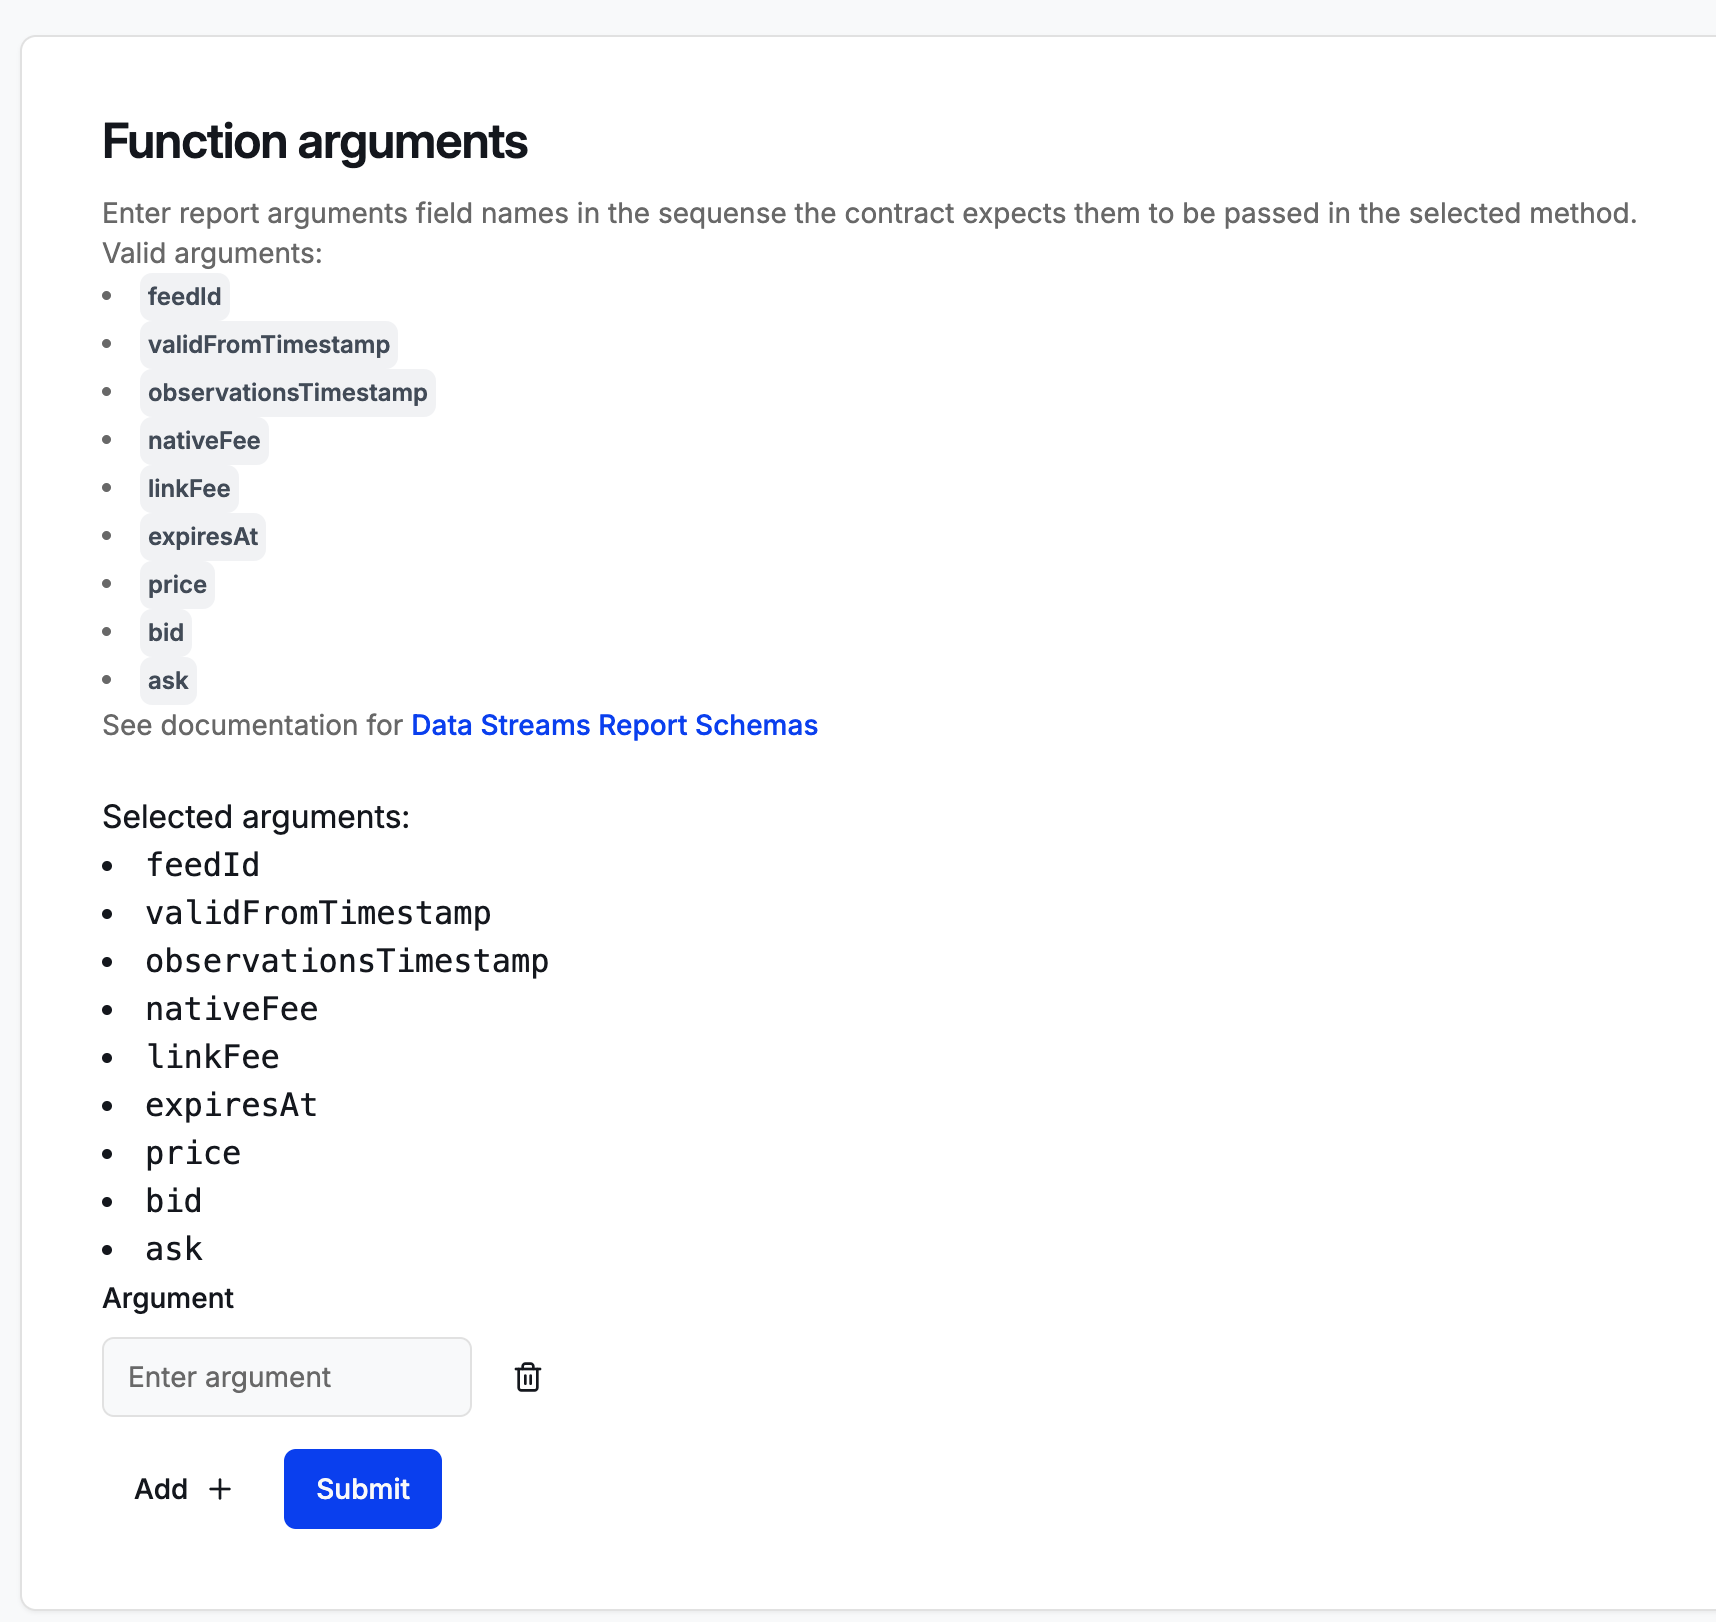
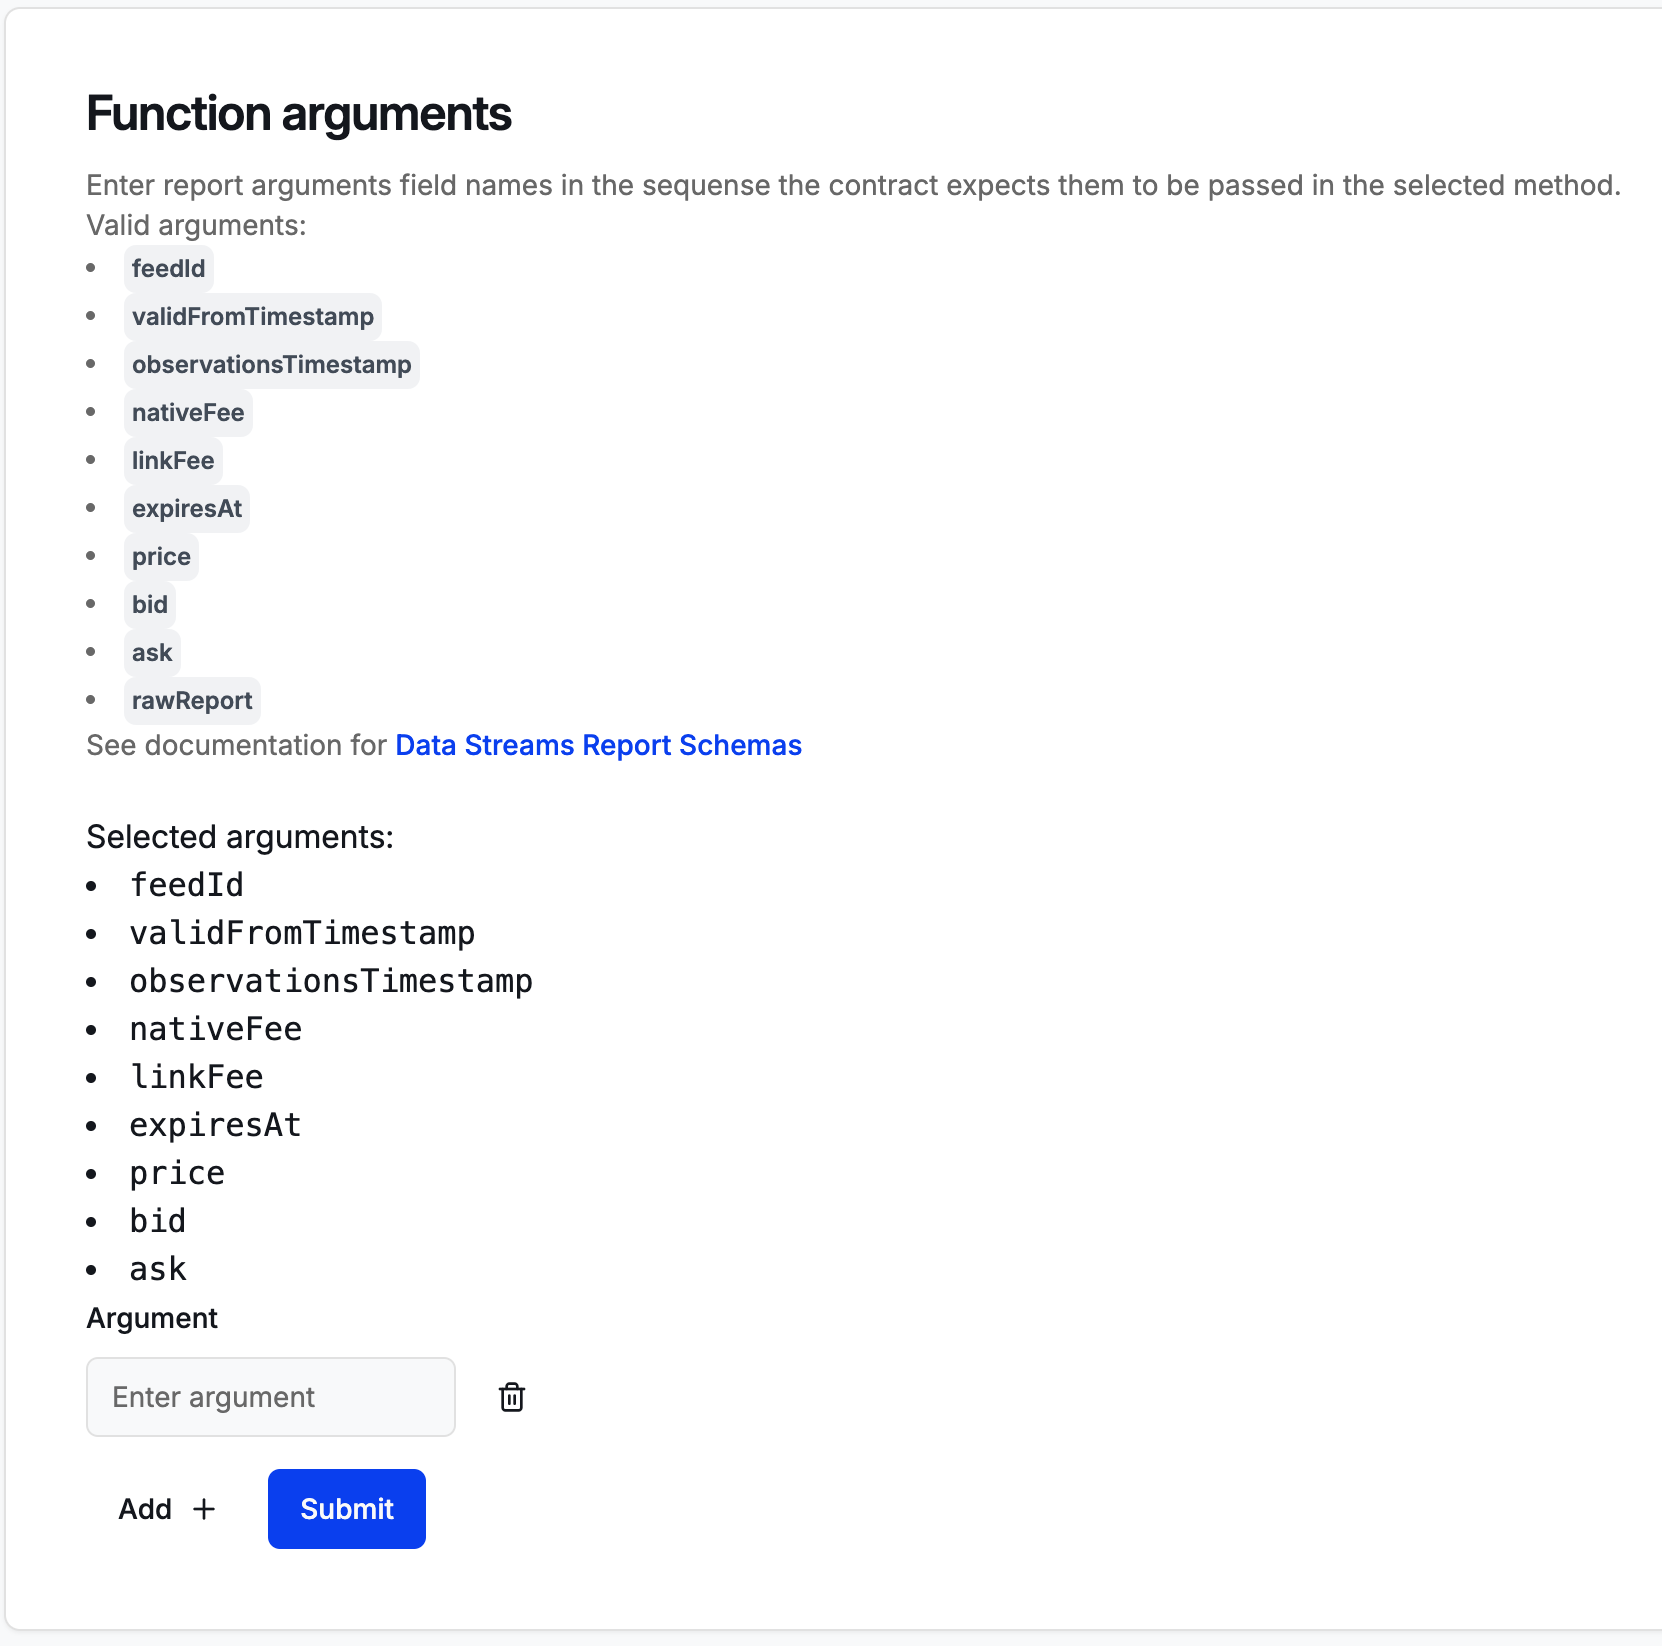
FEAT: expose raw report

diff --git a/server/services/clientEvm.ts b/server/services/clientEvm.ts
@@ -371,6 +371,7 @@ export async function verifyReport(report: StreamReport) {
         price,
         bid,
         ask,
+        rawReport: report.rawReport,
       };
       return verifiedReport;
     }
@@ -406,6 +407,7 @@ export async function verifyReport(report: StreamReport) {
         expiresAt,
         price,
         marketStatus,
+        rawReport: report.rawReport,
       };
       return verifiedReport;
     }

diff --git a/app/routes/contract.$feedId.evm.tsx b/app/routes/contract.$feedId.evm.tsx
@@ -387,6 +387,11 @@ export default function ContractEVM() {
                   ask
                 </span>
               </li>
+              <li>
+                <span className="inline-flex items-center rounded-md bg-gray-100 px-1 py-1 text-xs font-semibold text-gray-600">
+                  rawReport
+                </span>
+              </li>
             </ul>
             See documentation for{' '}
             <a

diff --git a/app/routes/contract.$feedId.svm.tsx b/app/routes/contract.$feedId.svm.tsx
@@ -373,6 +373,11 @@ export default function ContractSVM() {
                   ask
                 </span>
               </li>
+              <li>
+                <span className="inline-flex items-center rounded-md bg-gray-100 px-1 py-1 text-xs font-semibold text-gray-600">
+                  rawReport
+                </span>
+              </li>
             </ul>
             See documentation for{' '}
             <a

diff --git a/server/types.ts b/server/types.ts
@@ -22,6 +22,7 @@ export type ReportV3 = {
   price: bigint;
   bid: bigint;
   ask: bigint;
+  rawReport: Hex;
 };
 
 export type ReportV4 = {
@@ -33,6 +34,7 @@ export type ReportV4 = {
   expiresAt: number;
   price: bigint;
   marketStatus: number;
+  rawReport: Hex;
 };
 
 export type Feed = { name: string; feedId: string };
